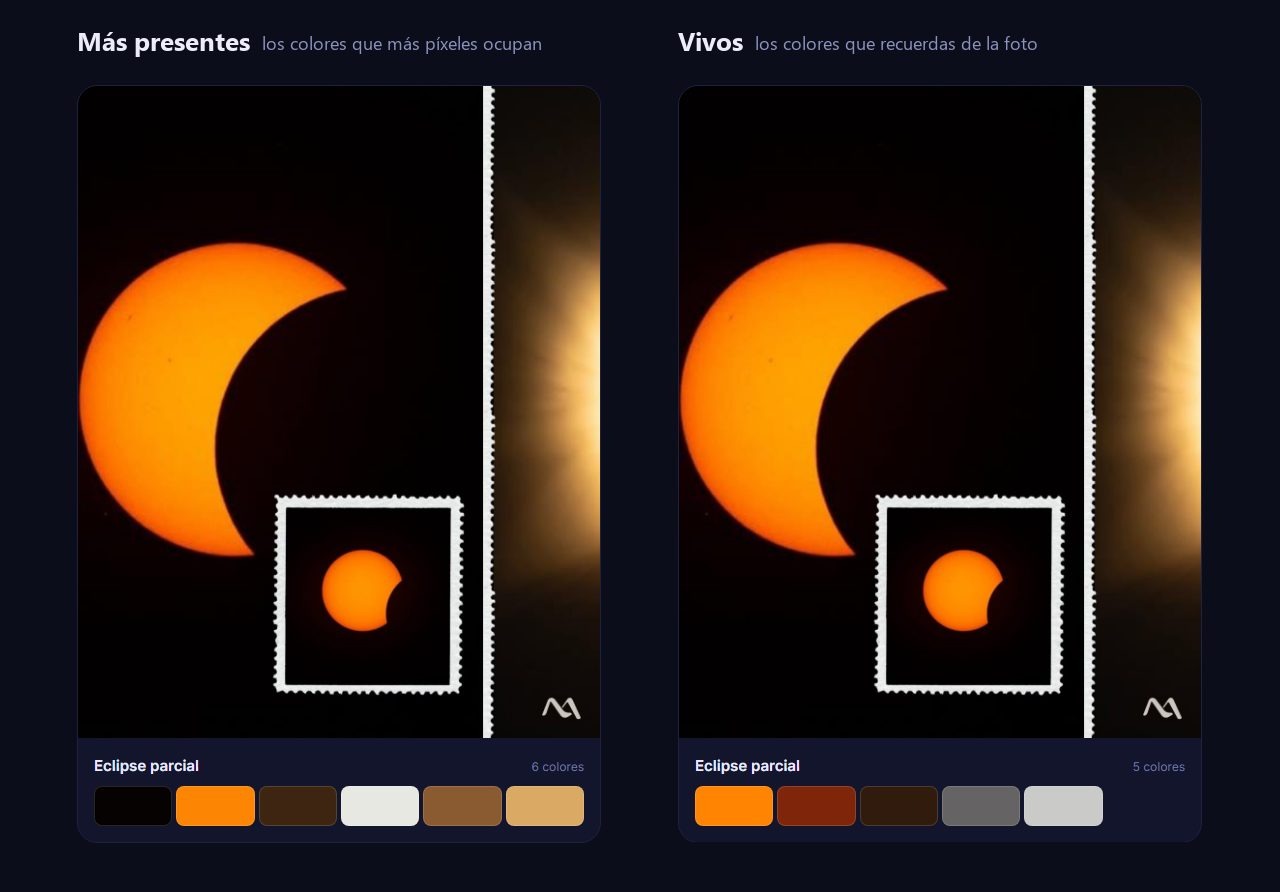
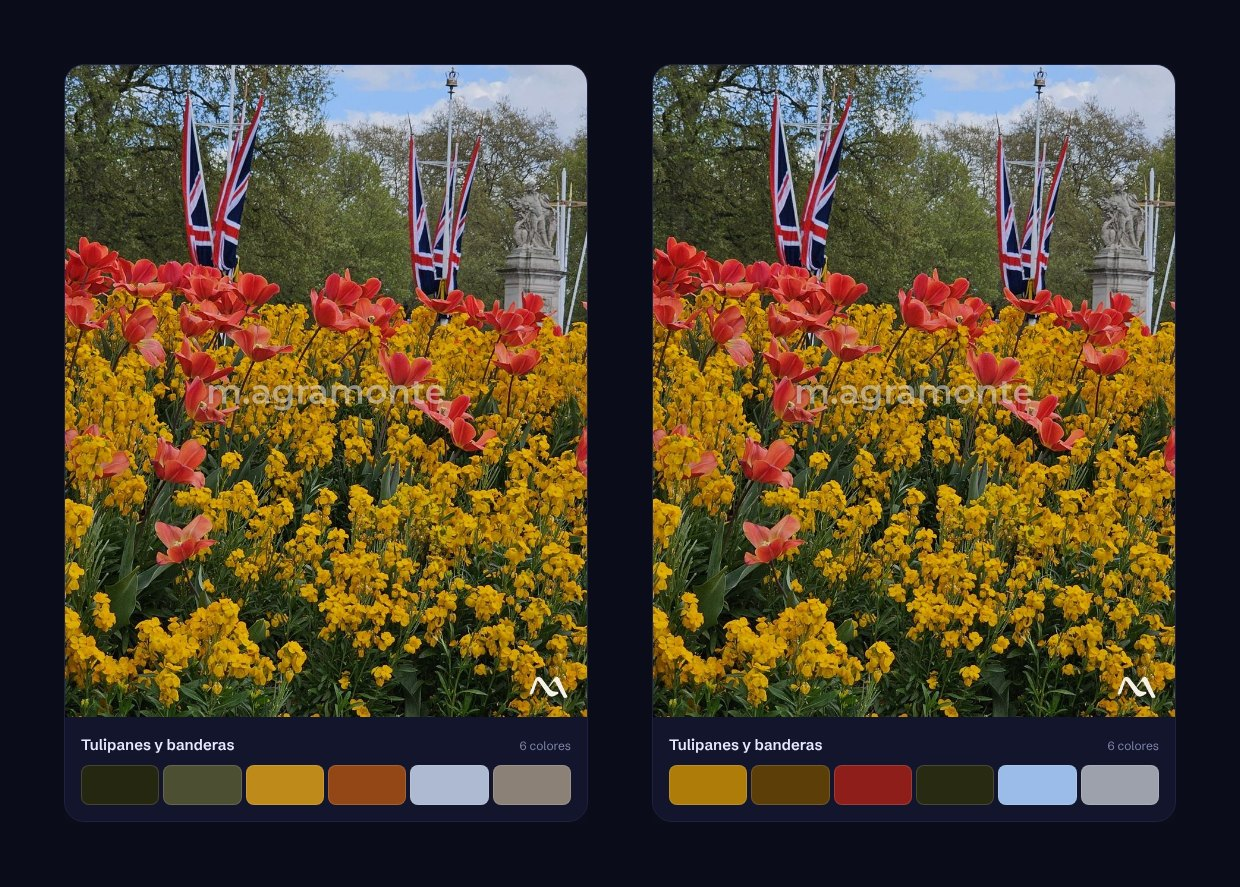
Imagen para compartir, panel accesible y capturas al día (#26)
- og.png: la imagen que sale al compartir el enlace. Lleva el símbolo, el
  titular y la foto de los tulipanes con sus seis colores vivos reales. Las
  etiquetas og ya apuntaban a ella, pero el fichero no existía.
- El panel de detalle deja inerte todo lo que queda detrás. Con el panel
  abierto, Tab ya no se escapa a la página, que es lo que prometía
  aria-modal.
- Las capturas de docs/ se rehacen con el feed actual: ya no sale el
  eclipse. La de la API en vivo se queda, avisando de que es de cuando
  estaba en Render.
- setup-java pasa a v5, porque v4 está obsoleta, y Dependabot vigila Maven,
  las Actions y las imágenes de Docker.

diff --git a/web/js/app.js b/web/js/app.js
@@ -312,6 +312,20 @@
 
   // --- Detalle -------------------------------------------------------------
 
+  /**
+   * Todo lo que queda detrás del panel. Con el panel abierto se marca inert: ni el teclado
+   * ni un lector de pantalla pueden llegar a ello, que es lo que promete aria-modal. El
+   * aviso de «copiado» se queda fuera porque tiene que oírse con el panel abierto.
+   */
+  const fondoDelDetalle = () =>
+    [...document.body.children].filter(
+      (elemento) =>
+        elemento !== nodos.detalle &&
+        elemento !== nodos.telon &&
+        elemento.id !== "avisoCopiado" &&
+        elemento.tagName !== "SCRIPT"
+    );
+
   function abrirDetalle(foto, origen, enVivo) {
     const paleta = paletaDe(foto);
     if (!paleta) {
@@ -330,11 +344,13 @@
 
     nodos.telon.hidden = false;
     nodos.detalle.hidden = false;
+    fondoDelDetalle().forEach((elemento) => (elemento.inert = true));
     document.body.style.overflow = "hidden";
     nodos.cerrarDetalle.focus();
   }
 
   function cerrarDetalle() {
+    fondoDelDetalle().forEach((elemento) => (elemento.inert = false));
     nodos.telon.hidden = true;
     nodos.detalle.hidden = true;
     document.body.style.overflow = "";

diff --git a/web/index.html b/web/index.html
@@ -7,9 +7,17 @@
   <meta name="description" content="Convierte tus fotos en paletas de color listas para pegar en una web. Las calcula una API propia en Java con k-means.">
   <meta name="theme-color" content="#0b0d1a">
 
+  <link rel="canonical" href="https://paleta.maragramonte.com/">
   <meta property="og:title" content="Photo Palette">
   <meta property="og:description" content="Cada foto esconde una paleta. Esta API la encuentra.">
   <meta property="og:type" content="website">
+  <meta property="og:url" content="https://paleta.maragramonte.com/">
+  <meta property="og:locale" content="es_ES">
+  <meta property="og:image" content="https://paleta.maragramonte.com/og.png">
+  <meta property="og:image:width" content="1200">
+  <meta property="og:image:height" content="630">
+  <meta property="og:image:alt" content="Photo Palette: una foto de tulipanes rojos y flores amarillas junto a los seis colores vivos que saca la API">
+  <meta name="twitter:card" content="summary_large_image">
 
   <link rel="preconnect" href="https://fonts.googleapis.com">
   <link rel="preconnect" href="https://fonts.gstatic.com" crossorigin>

diff --git a/docs/CAPTURAS.md b/docs/CAPTURAS.md
@@ -14,27 +14,27 @@ regla pegada a la foto mide lo que ocupa cada color «más presente»; debajo va
 Verlas juntas es la idea del proyecto: la paleta fiel no es la paleta útil. «Otra foto» pasa
 a la siguiente.
 
-![Portada de Photo Palette: sobre fondo azul noche, el titular «Cada foto esconde una paleta.» y la zona para soltar una foto. A la derecha, la foto del eclipse con una regla de color pegada a su borde, donde el negro ocupa el 70 % y el naranja el 13 %, y debajo sus cinco colores vivos con su HEX](capturas/01-portada.jpg)
+![Portada de Photo Palette: sobre fondo azul noche, el titular «Cada foto esconde una paleta.» y la zona para soltar una foto, con el aviso de que la subida está en pausa. A la derecha, la foto de los tulipanes con una regla de color pegada a su borde, donde el verde casi negro de las hojas ocupa el 24 % y el ocre de las flores el 20 %, y debajo sus seis colores vivos con su HEX](capturas/01-portada.jpg)
 
 ---
 
 ## Los dos modos, con la misma foto
 
-A la izquierda, `presentes`: la paleta empieza por el negro, que ocupa el 70 % del eclipse.
-A la derecha, `vivos`: empieza por el naranja del sol, se olvida de las sombras y se queda en
-cinco colores. Por qué existen los dos está en
+A la izquierda, `presentes`: la paleta empieza por el verde casi negro de las hojas, que ocupa
+el 24 % de la foto. A la derecha, `vivos`: empieza por el ocre de las flores amarillas y deja
+entrar el rojo de los tulipanes, que en `presentes` ni aparece. Por qué existen los dos está en
 [DECISIONES-TECNICAS.md](DECISIONES-TECNICAS.md#1-dos-modos-porque-contar-píxeles-da-paletas-apagadas).
 
-![La tarjeta del eclipse parcial dos veces. En «Más presentes» sus seis muestras empiezan por un negro casi puro; en «Vivos» son cinco y empiezan por el naranja del sol](capturas/02-dos-modos.jpg)
+![La tarjeta de los tulipanes y banderas dos veces. En «Más presentes» sus seis muestras empiezan por un verde casi negro y no hay ningún rojo; en «Vivos» empiezan por el ocre de las flores, y la tercera es el rojo de los tulipanes](capturas/02-dos-modos.jpg)
 
 ---
 
 ## El feed en modo vivos
 
-Cada tarjeta enseña la foto, su nombre, cuántos colores salen y las muestras. El eclipse da
-cinco y el ala vista desde la ventanilla, seis.
+Cada tarjeta enseña la foto, su nombre, cuántos colores salen y las muestras. Los tulipanes y
+las rosas arcoíris dan seis cada una; las fotos más apagadas, menos.
 
-![El feed en modo Vivos: dos tarjetas con su foto y sus muestras de color debajo. La del eclipse da cinco colores encabezados por el naranja del sol; la del ala vista desde la ventanilla da seis, empezando por el azul del cielo](capturas/04-feed-vivos.jpg)
+![El feed en modo Vivos: dos tarjetas con su foto y sus muestras de color debajo. La de los tulipanes da seis colores encabezados por el ocre de las flores; la de las rosas arcoíris da seis, empezando por un azul intenso](capturas/04-feed-vivos.jpg)
 
 ---
 
@@ -54,6 +54,9 @@ el contraste calculado para que se vea que cumple WCAG AA.
 que esa paleta se acaba de calcular y no viene de `paletas.json`, y sale idéntica a la del
 feed: el k-means es determinista.
 
+Esta captura es de cuando la API estaba publicada en Render, antes de que las fotos llevaran la
+firma. La subida está en pausa hasta que la API vuelva a estar en línea en un servidor propio.
+
 ![Panel de detalle con el aviso «Calculada ahora mismo por la API, no leída de paletas.json» sobre las seis muestras del ala desde la ventanilla en modo más presentes y su bloque :root](capturas/05-api-en-vivo.jpg)
 
 ---
@@ -63,4 +66,4 @@ feed: el k-means es determinista.
 El feed pasa a una columna, el interruptor se coloca bajo el título y las tarjetas mantienen
 su recorte 4:5.
 
-![La web en un móvil: el título «El feed», el interruptor entre «Más presentes» y «Vivos» y la tarjeta del eclipse a todo el ancho con sus seis muestras](capturas/06-movil.jpg)
+![La web en un móvil: el título «El feed», el interruptor entre «Más presentes» y «Vivos» y la tarjeta de los tulipanes a todo el ancho con sus seis muestras](capturas/06-movil.jpg)

diff --git a/README.md b/README.md
@@ -9,7 +9,7 @@ foto se analiza en memoria sin guardarse en ningún sitio.
 
 [![tests](https://github.com/maragramonte/photo-palette/actions/workflows/tests.yml/badge.svg)](https://github.com/maragramonte/photo-palette/actions/workflows/tests.yml)
 
-![Portada de Photo Palette: sobre fondo azul noche, el titular «Cada foto esconde una paleta.» y la zona para soltar una foto. A la derecha, la foto del eclipse con una regla de color pegada a su borde, donde el negro ocupa el 70 % y el naranja el 13 %, y debajo sus cinco colores vivos con su HEX](docs/capturas/01-portada.jpg)
+![Portada de Photo Palette: sobre fondo azul noche, el titular «Cada foto esconde una paleta.» y la zona para soltar una foto. A la derecha, la foto de los tulipanes con una regla de color pegada a su borde, donde el verde casi negro de las hojas ocupa el 24 % y el ocre de las flores el 20 %, y debajo sus seis colores vivos con su HEX](docs/capturas/01-portada.jpg)
 
 ---
 
@@ -28,7 +28,7 @@ Por eso hay dos modos. `presentes` cuenta píxeles; `vivos` busca los colores qu
 Y por eso el feed solo tiene fotos mías, nada de stock: el contraste entre los dos modos se
 ve con fotos reales.
 
-![La tarjeta del eclipse parcial dos veces. En «Más presentes» sus seis muestras empiezan por un negro casi puro; en «Vivos» son cinco y empiezan por el naranja del sol](docs/capturas/02-dos-modos.jpg)
+![La tarjeta de los tulipanes y banderas dos veces. En «Más presentes» sus seis muestras empiezan por un verde casi negro y no hay ningún rojo; en «Vivos» empiezan por el ocre de las flores, y la tercera es el rojo de los tulipanes](docs/capturas/02-dos-modos.jpg)
 
 ---
 
@@ -38,10 +38,10 @@ ve con fotos reales.
 `main` que toque la web la vuelve a publicar.
 
 **Para verlo en un minuto:** pulsa el interruptor **Vivos** y mira cómo cambia el feed
-entero. El eclipse deja de abrir con negro y abre con el naranja del sol; el cielo con tejado
-pasa de cinco azules a dos colores, y el primero es la teja. Después pulsa cualquier tarjeta y
-copia un color, o dale a **Probar con una de ejemplo** para ver a la API calcular la misma
-paleta en directo.
+entero. Los tulipanes dejan de abrir con el verde oscuro de las hojas y abren con el ocre de
+las flores amarillas; el cielo con tejado pasa de una paleta casi toda en grises azulados a solo
+tres colores, y el primero es la teja. Después pulsa cualquier tarjeta y copia un color. Cuando la API vuelva a estar
+publicada, **Probar con una de ejemplo** la enseña calculando la misma paleta en directo.
 
 Si prefieres no pulsar nada, en [docs/CAPTURAS.md](docs/CAPTURAS.md) está la web pantalla a
 pantalla.
